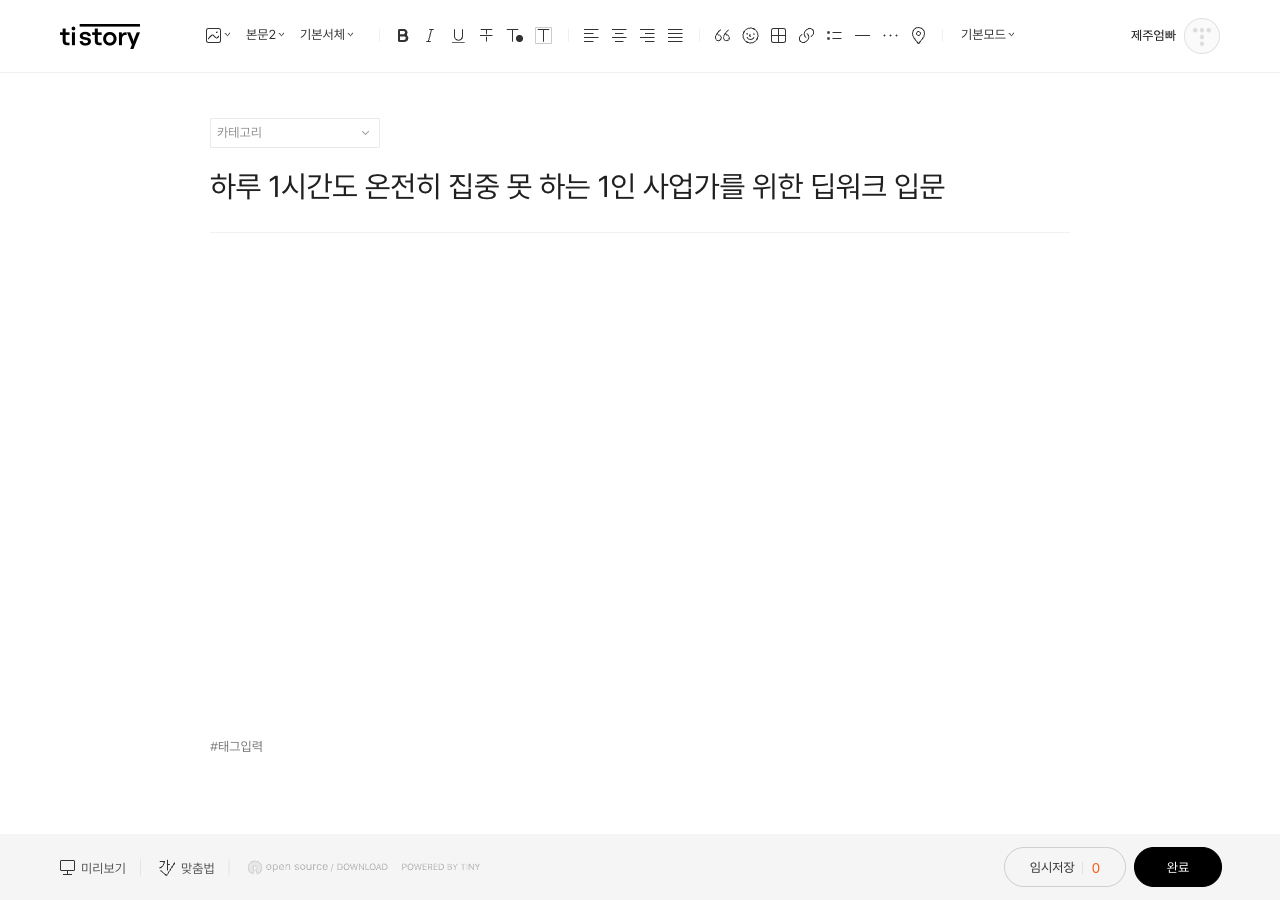
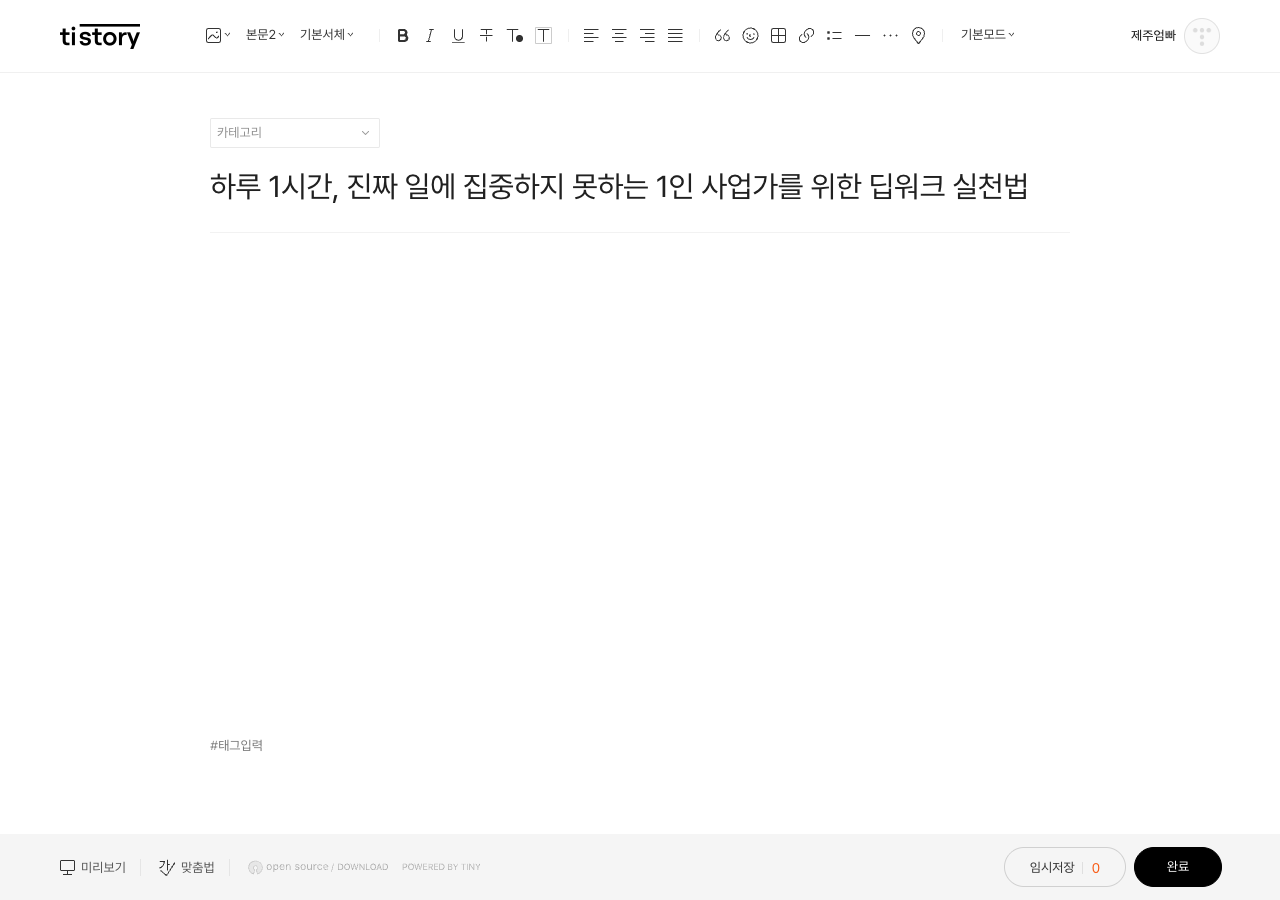
fix: telegram_bot.poll .env 로드 + plist 복원

Changed region(s): [[0.25, 0.1867, 0.8125, 0.2178], [0.1562, 0.8089, 0.2188, 0.84]]

diff --git a/site/blog-drafts/claude-intro-email/post.html b/site/blog-drafts/claude-intro-email/post.html
@@ -1,66 +1,28 @@
-<!doctype html><html lang="ko"><head><meta charset="utf-8"><title>클로드 AI 이메일 자동화, 1인 사업가가 처음부터 제대로 배워야 하는 이유</title><style>body{max-width:720px;margin:24px auto;padding:0 20px;font-family:-apple-system,Pretendard,sans-serif;line-height:1.6}h1{color:#1A3558}</style></head><body><h1>클로드 AI 이메일 자동화, 1인 사업가가 처음부터 제대로 배워야 하는 이유</h1><p style="text-align:center;margin:20px 0"><img src="https://raw.githubusercontent.com/idsexyhomme-code/lecture-auto/main/site/blog-images/claude-intro-email-hero.png" alt="클로드 AI 이메일 자동화, 1인 사업가가 처음부터 제대로 배워야 하는 이유" style="max-width:100%;height:auto;border-radius:8px;box-shadow:0 4px 12px rgba(0,0,0,0.08)"></p>
+<!doctype html><html lang="ko"><head><meta charset="utf-8"><title>이메일 쓰는 데 하루가 걸린다면 클로드를 아직 제대로 못 쓰고 있는 겁니다</title><style>body{max-width:720px;margin:24px auto;padding:0 20px;font-family:-apple-system,Pretendard,sans-serif;line-height:1.6}h1{color:#1A3558}</style></head><body><h1>이메일 쓰는 데 하루가 걸린다면 클로드를 아직 제대로 못 쓰고 있는 겁니다</h1><p style="text-align:center;margin:20px 0"><img src="https://raw.githubusercontent.com/idsexyhomme-code/lecture-auto/main/site/blog-images/claude-intro-email-hero.png" alt="이메일 쓰는 데 하루가 걸린다면 클로드를 아직 제대로 못 쓰고 있는 겁니다" style="max-width:100%;height:auto;border-radius:8px;box-shadow:0 4px 12px rgba(0,0,0,0.08)"></p>
 
-<h2>이메일 하나 쓰는 데 30분씩 쓰고 있다면</h2>
-<p>
-1인 사업을 하다 보면 이메일 쓰는 시간이 생각보다 엄청나게 잡아먹힌다는 걸 느끼게 됩니다. 고객 문의 답변, 제휴 제안, 팔로업, 감사 인사… 매번 비슷한 내용인데도 빈 화면 앞에서 멍하니 있다가 결국 30분이 훌쩍 지나 있는 경험, 한 번쯤은 있으시죠?
-</p>
-<p>
-그렇다고 아무 템플릿이나 복붙하면 읽는 사람이 바로 느낍니다. "아, 이거 그냥 긁어온 거구나." 개인적인 느낌이 없으니 응답률도 떨어지고, 결국 내가 직접 쓰는 게 낫겠다는 결론으로 돌아오게 됩니다.
-</p>
-<p>
-Claude 같은 AI 어시스턴트가 이 문제를 해결해줄 수 있다고들 하는데, 막상 써보면 "이걸 어떻게 써야 제대로 된 이메일이 나오지?" 하는 막막함이 앞섭니다. 프롬프트를 어떻게 짜야 하는지, 내 목소리를 살리면서 AI를 활용하는 방법이 뭔지 감이 잘 안 잡히는 거죠.
-</p>
-<p>
-이 코스는 그 막막함을 없애기 위해 만들어졌습니다. 거창한 AI 강의가 아니라, "이메일 쓸 때 Claude 이렇게 쓰면 됩니다"를 알려주는 실용적인 가이드입니다.
-</p>
+<h2>이메일 하나 쓰는 데 30분씩 쓰고 계신가요?</h2>
+<p>1인 사업가로 일하다 보면, 하루에도 수십 통의 이메일을 써야 할 때가 있습니다. 고객 문의 답변, 협업 제안, 팔로업 메시지, 뉴스레터 초안… 머릿속에 하고 싶은 말은 분명한데, 막상 키보드 앞에 앉으면 첫 문장부터 막힙니다. 그렇게 30분이 지나고, 겨우 완성한 이메일을 보내고 나서도 "이게 맞는 톤이었나?" 하는 찜찜함이 남죠.</p>
+<p>Claude 같은 AI 도구가 있다는 건 알고 있습니다. 써보려고 했던 적도 있고요. 그런데 막상 뭘 입력해야 하는지 몰라서, 결국 그냥 직접 쓰게 됩니다. 혹은 AI한테 써달라고 했더니 너무 딱딱하거나, 너무 광고처럼 나와서 반쯤 포기한 상태이기도 하죠.</p>
+<p>이 코스는 바로 그 지점에서 시작합니다. Claude를 "어떻게 써야 할지 모르겠는" 상태에서, 실제 업무 이메일에 바로 적용할 수 있는 수준까지 데려다 주는 실용적인 입문 과정입니다.</p>
 
 <h2>이 코스가 약속하는 것</h2>
 <ul>
-  <li><strong>이메일 작성 시간을 실질적으로 줄여드립니다.</strong> 30분짜리 이메일을 5분 안에 초안까지 뽑아내는 흐름을 익힙니다. Claude에게 정확하게 요청하는 방법을 알면, 처음부터 다시 쓰는 일이 확 줄어듭니다.</li>
-  <li><strong>내 목소리를 잃지 않는 방법을 알려드립니다.</strong> AI가 써준 글이 어색하게 느껴지는 이유가 있습니다. 톤, 문체, 맥락을 제대로 전달하는 프롬프트 구조를 익히면 내가 쓴 것처럼 자연스러운 이메일이 나옵니다.</li>
-  <li><strong>반복 사용 가능한 나만의 SOP를 만들어드립니다.</strong> 한 번 배우고 끝이 아니라, 매번 꺼내 쓸 수 있는 이메일 유형별 프롬프트 세트를 코스 끝에 직접 완성하게 됩니다.</li>
+  <li><strong>Claude에게 제대로 부탁하는 법을 익힙니다.</strong> 프롬프트를 "잘 쓰는 기술"을 배우는 게 아닙니다. 이메일 하나를 쓸 때, 어떤 맥락을 함께 알려줘야 원하는 결과가 나오는지 감을 잡는 것입니다. 조금만 바꿔도 결과물이 확 달라진다는 걸 직접 경험하게 됩니다.</li>
+  <li><strong>내 목소리가 살아있는 이메일을 만드는 방법을 배웁니다.</strong> AI가 쓴 티가 팍팍 나는 글 말고, 내가 평소에 쓰는 말투와 결이 맞는 이메일을 뽑아내는 방식을 다룹니다. 복붙해서 바로 보낼 수 있는 수준으로요.</li>
+  <li><strong>반복되는 이메일은 템플릿으로 만들어둡니다.</strong> 비슷한 상황에서 매번 처음부터 쓰는 낭비를 줄이는 방법까지 다룹니다. 한 번 잘 만들어두면, 다음번엔 5분이면 충분합니다.</li>
 </ul>
 
 <h2>차시별 미리보기</h2>
-<p>
-이 코스는 처음 Claude를 쓰는 분들도 따라올 수 있도록 단계별로 구성되어 있습니다.
-</p>
-<p>
-<strong>1차시 – Claude가 뭔지, 이메일에 왜 쓰는지</strong><br>
-Claude의 기본 작동 방식을 짧게 짚고, 이메일 작성에 특히 잘 맞는 이유를 설명합니다. "AI 도구 소개" 강의가 아니라, 이메일이라는 구체적인 작업에 초점을 맞춥니다.
-</p>
-<p>
-<strong>2차시 – 프롬프트 기초: 왜 내가 원하는 게 안 나오는가</strong><br>
-"이메일 써줘"라고 하면 왜 엉뚱한 게 나오는지, 맥락·목적·톤 세 가지를 어떻게 전달해야 하는지를 다룹니다. 짧지만 핵심적인 내용입니다.
-</p>
-<p>
-<strong>3차시 – 이메일 유형별 프롬프트 작성법</strong><br>
-고객 문의 답변, 제휴 제안, 팔로업, 거절 이메일 등 1인 사업가가 자주 쓰는 유형별로 프롬프트 구조를 직접 작성해봅니다. 예시와 함께 비교하면서 익힙니다.
-</p>
-<p>
-<strong>4차시 – 초안 받고 내 것으로 다듬기</strong><br>
-Claude가 써준 초안을 어떻게 빠르게 검토하고 손보는지, 어느 부분을 꼭 직접 수정해야 하는지를 다룹니다. AI 결과물을 그대로 쓰지 않는 습관을 잡아줍니다.
-</p>
-<p>
-<strong>5차시 – 나만의 이메일 프롬프트 SOP 완성</strong><br>
-코스에서 익힌 것들을 정리해 반복 사용 가능한 프롬프트 세트를 만듭니다. 노션, 메모장 어디든 꺼내 쓸 수 있는 형태로 마무리합니다.
-</p>
+<p><strong>1강 – Claude가 뭔지, 이메일에 왜 쓰면 좋은지</strong><br>처음 접하는 분들을 위해 Claude가 어떤 도구인지 간단히 설명합니다. ChatGPT랑 뭐가 다른지, 이메일 작업에 특히 잘 맞는 이유가 뭔지 짚어봅니다. 거창한 설명 없이, 딱 필요한 만큼만 다룹니다.</p>
+<p><strong>2강 – 첫 프롬프트 써보기: 고객 문의 답변 이메일</strong><br>실제로 많이 쓰는 상황인 "고객 문의 답변"을 예제로 씁니다. 어떻게 부탁하면 쓸 만한 결과가 나오는지, 어떻게 하면 엉뚱한 결과가 나오는지 비교해봅니다. 직접 따라 해보는 형태로 진행됩니다.</p>
+<p><strong>3강 – 톤 조정하기: 딱딱하지 않게, 그렇다고 가볍지도 않게</strong><br>AI 이메일이 어색하게 느껴지는 가장 큰 이유는 톤입니다. 내 상황과 관계에 맞는 말투로 조정하는 방법을 다룹니다. "좀 더 친근하게", "좀 더 간결하게" 같은 지시어를 실제로 어떻게 쓰면 효과적인지 알아봅니다.</p>
+<p><strong>4강 – 반복 이메일 템플릿 만들기</strong><br>팔로업 메시지, 미팅 요청, 견적 안내 등 자주 쓰는 유형을 Claude로 한 번 잘 만들어두는 방법을 다룹니다. 나중에 상황에 맞게 조금씩 바꿔 쓸 수 있도록 구조를 잡는 법까지 포함합니다.</p>
+<p><strong>5강 – 실전 워크플로우: 이메일 작성 시간 절반으로 줄이기</strong><br>앞서 배운 내용을 실제 업무 흐름에 녹여내는 방법을 정리합니다. 어떤 순서로 Claude를 활용하면 가장 효율적인지, 내 루틴에 어떻게 끼워 넣을 수 있는지 실제적인 방식으로 다룹니다.</p>
 
 <h2>누구를 위한 것인가</h2>
-<p>
-Claude나 ChatGPT를 써봤는데 이메일에 제대로 활용하지 못하고 있는 분, 이메일 쓰는 데 시간이 너무 많이 들어서 다른 작업이 밀리는 분, AI가 쓴 이메일이 어색해서 결국 직접 다 고치게 되는 분에게 맞습니다.
-</p>
-<p>
-개발자가 아니어도 됩니다. AI를 처음 써보는 분도 괜찮습니다. 이메일을 매일 쓰는 1인 사업가, 프리랜서, 소규모 팀이면 충분합니다.
-</p>
-<p>
-반대로, 이미 자신만의 프롬프트 루틴이 잘 잡혀 있고 이메일 자동화까지 구축한 분에게는 새로운 내용이 많지 않을 수 있습니다.
-</p>
+<p>이 코스는 AI나 기술에 특별히 밝지 않아도 됩니다. Claude를 한 번도 써본 적 없어도 괜찮습니다. 다만, 이메일 쓰는 데 시간이 많이 들거나, 매번 비슷한 내용을 반복해서 쓰고 있다는 느낌이 드는 1인 사업가라면 바로 체감이 될 내용입니다. 프리랜서, 1인 컨설턴트, 소규모 스튜디오 운영자처럼 혼자서 커뮤니케이션을 다 책임져야 하는 분들에게 특히 잘 맞습니다.</p>
+<p>거창한 자동화나 복잡한 세팅 같은 건 없습니다. Claude 창 하나 열고, 실제 이메일 하나 써보는 것부터 시작합니다. 그게 전부입니다.</p>
 
 <h2>지금 시작하기</h2>
-<p>
-이메일 하나에 쓰는 시간을 줄이는 건 거창한 변화가 아닙니다. 프롬프트 구조 하나 익히는 것에서 시작됩니다. 코스는 짧고 실용적으로 구성되어 있으니, 부담 없이 1차시부터 따라와 보세요.
-</p>
-<p>
-사이트 링크: <a href="https://idsexyhomme-code.github.io/lecture-auto/courses/claude-intro-email.html">claude-intro-email 코스 바로가기</a>
-</p></body></html>
+<p>이미 쓰고 있는 이메일을 조금 더 빠르게, 조금 더 잘 쓸 수 있게 되는 것. 그걸로 충분합니다. 오늘 30분 투자해서, 앞으로 이메일에 쓰는 시간을 아껴보세요.</p>
+<p>사이트 링크: <a href="https://idsexyhomme-code.github.io/lecture-auto/courses/claude-intro-email.html">claude-intro-email 코스 바로가기</a></p></body></html>

diff --git a/site/blog-drafts/deepwork-1hr/post.html b/site/blog-drafts/deepwork-1hr/post.html
@@ -1,36 +1,71 @@
-<!doctype html><html lang="ko"><head><meta charset="utf-8"><title>하루 1시간도 온전히 집중 못 하는 1인 사업가를 위한 딥워크 입문</title><style>body{max-width:720px;margin:24px auto;padding:0 20px;font-family:-apple-system,Pretendard,sans-serif;line-height:1.6}h1{color:#1A3558}</style></head><body><h1>하루 1시간도 온전히 집중 못 하는 1인 사업가를 위한 딥워크 입문</h1><p style="text-align:center;margin:20px 0"><img src="https://raw.githubusercontent.com/idsexyhomme-code/lecture-auto/main/site/blog-images/deepwork-1hr-hero.png" alt="하루 1시간도 온전히 집중 못 하는 1인 사업가를 위한 딥워크 입문" style="max-width:100%;height:auto;border-radius:8px;box-shadow:0 4px 12px rgba(0,0,0,0.08)"></p>
+<!doctype html><html lang="ko"><head><meta charset="utf-8"><title>하루 1시간, 진짜 일에 집중하지 못하는 1인 사업가를 위한 딥워크 실천법</title><style>body{max-width:720px;margin:24px auto;padding:0 20px;font-family:-apple-system,Pretendard,sans-serif;line-height:1.6}h1{color:#1A3558}</style></head><body><h1>하루 1시간, 진짜 일에 집중하지 못하는 1인 사업가를 위한 딥워크 실천법</h1><p style="text-align:center;margin:20px 0"><img src="https://raw.githubusercontent.com/idsexyhomme-code/lecture-auto/main/site/blog-images/deepwork-1hr-hero.png" alt="하루 1시간, 진짜 일에 집중하지 못하는 1인 사업가를 위한 딥워크 실천법" style="max-width:100%;height:auto;border-radius:8px;box-shadow:0 4px 12px rgba(0,0,0,0.08)"></p>
 
-<h2>하루 종일 바쁜데, 정작 중요한 일은 하나도 못 했다는 느낌 아시나요?</h2>
-<p>노트북 앞에 앉아 있던 시간은 분명 8시간인데, 막상 오늘 뭘 했냐고 물으면 선뜻 대답이 안 나옵니다. 메일 답장, 카카오톡, 유튜브 알고리즘, 슬랙 알림, 또 메일. 어느새 저녁이고, 진짜 해야 했던 그 작업은 내일로 밀립니다. 그리고 내일도 똑같은 하루가 반복됩니다.</p>
-<p>1인 사업가, 프리랜서, 부업러라면 이 패턴이 유독 잔인하게 느껴집니다. 회사원처럼 퇴근이라는 마감선도 없고, 누가 시켜주는 것도 없으니까요. 결국 스스로 집중을 만들어내야 하는데, 아무도 그 방법을 제대로 알려준 적이 없습니다.</p>
-<p>딥워크(Deep Work)라는 개념 자체는 많이들 들어봤을 겁니다. 칼 뉴포트의 책도 유명하고, 유튜브 영상도 넘쳐납니다. 근데 실제로 내 하루 루틴에 딥워크를 어떻게 집어넣는지, 구체적인 SOP 수준으로 알려주는 곳은 거의 없죠. 이론은 알겠는데 실행이 안 되는 상태. 이 코스는 바로 그 간격을 채우기 위해 만들었습니다.</p>
+<h2>하루 종일 바쁜데, 왜 한 것도 없는 것 같을까</h2>
+<p>
+아침에 노트북을 열고, 메일 확인하고, 슬랙 답장하고, 유튜브 잠깐 보고, 커피 한 잔 더 마시고 나면 어느새 점심이다.
+오후엔 회의 하나, 자료 조사 조금, 카카오톡 몇 개 답장. 그렇게 저녁이 온다.
+분명히 하루를 꽉 채웠는데, 정작 "오늘 뭘 만들었지?"라고 물으면 딱히 떠오르는 게 없다.
+</p>
+<p>
+1인 사업가라면 이 감각이 낯설지 않을 거다. 바쁨과 생산성은 다르다는 걸 머리로는 알면서도, 막상 하루를 어떻게 설계해야 할지 모른다.
+집중해야 한다는 건 알겠는데, 어떻게 집중하냐고. 그냥 폰 내려놓으면 되냐고? 그게 됐으면 이미 했겠지.
+</p>
+<p>
+이 코스는 그 물음에 SOP처럼 답한다. 복잡한 생산성 이론 말고, 오늘 당장 써먹을 수 있는 1시간짜리 딥워크 루틴을 설계하는 방법을 다룬다.
+</p>
 
 <h2>이 코스가 약속하는 것</h2>
 <ul>
-  <li><strong>하루 1시간, 실제로 써먹을 수 있는 딥워크 루틴을 설계합니다.</strong> 거창한 생산성 철학이 아니라, 오늘 당장 적용할 수 있는 순서와 방법을 알려드립니다. 타이머 몇 분, 환경 셋업 몇 가지, 마감 트리거 하나. 이 정도면 충분합니다.</li>
-  <li><strong>집중이 안 되는 진짜 이유를 짚어줍니다.</strong> 의지력 부족이 아닙니다. 환경 설계와 진입 의식(ritual)의 문제입니다. 뇌가 집중 모드로 전환되는 구조를 만들면, 억지로 버티지 않아도 됩니다.</li>
-  <li><strong>짧고 밀도 있게 끝냅니다.</strong> 이 코스 자체가 딥워크처럼 설계되어 있습니다. 군더더기 없이, 핵심만, 실행 가능한 것들만 담았습니다. 배우는 데 시간을 다 써버리는 아이러니를 피했습니다.</li>
+  <li>
+    <strong>딥워크를 "해야 하는 것"이 아니라 "할 수 있는 것"으로 만들어준다.</strong>
+    의지력에 기대지 않는다. 환경과 구조로 집중이 자동으로 일어나게 만드는 방식을 다룬다.
+  </li>
+  <li>
+    <strong>하루 1시간만 확보해도 충분하다는 걸 직접 경험하게 해준다.</strong>
+    8시간 집중하겠다는 계획은 대부분 실패한다. 현실적인 단위로 쪼개서, 짧고 강하게 쓰는 루틴을 만든다.
+  </li>
+  <li>
+    <strong>자신의 집중 패턴을 파악하고, 딱 맞는 루틴을 직접 설계할 수 있게 된다.</strong>
+    남의 루틴을 따라 하면 2주를 못 간다. 이 코스는 내 상황에 맞는 루틴을 직접 설계하는 과정을 안내한다.
+  </li>
 </ul>
 
 <h2>차시별 미리보기</h2>
-<p><strong>1차시 — 딥워크가 왜 1인 사업가에게 더 중요한가</strong><br>
-멀티태스킹이 생산성을 낮추는 구조적 이유, 그리고 왜 1인 사업가는 이 문제에 더 취약한지를 짚습니다. 이론 설명이 아니라, 내 하루 패턴을 진단하는 방식으로 접근합니다.</p>
-
-<p><strong>2차시 — 딥워크 환경 셋업: 방해 요소 차단 SOP</strong><br>
-폰, 알림, 탭, 소음. 집중을 방해하는 요소들을 하나씩 끊는 체크리스트를 만듭니다. 한 번만 셋업해두면 매일 재사용할 수 있는 나만의 집중 환경 프로토콜입니다.</p>
-
-<p><strong>3차시 — 딥워크 진입 의식(Ritual) 설계하기</strong><br>
-집중 상태는 갑자기 오지 않습니다. 뇌에게 "지금부터 집중 모드야"라는 신호를 주는 반복 행동 패턴, 즉 진입 의식을 설계합니다. 커피 한 잔부터 특정 플레이리스트까지, 나에게 맞는 트리거를 찾습니다.</p>
-
-<p><strong>4차시 — 1시간 딥워크 블록 실전 템플릿</strong><br>
-실제로 어떻게 1시간을 구성하는지 분 단위로 보여줍니다. 워밍업 5분, 집중 작업 45분, 리뷰 10분. 이 구조를 내 업무 유형에 맞게 조정하는 방법까지 다룹니다.</p>
-
-<p><strong>5차시 — 딥워크 루틴을 습관으로 굳히는 방법</strong><br>
-한 번 해보는 것과, 매일 하는 것은 다릅니다. 루틴이 끊겼을 때 다시 돌아오는 방법, 기록 방식, 그리고 딥워크 블록을 캘린더에 고정하는 실전 팁까지 정리합니다.</p>
+<p>
+<strong>1차시 · 딥워크가 뭔지, 왜 1시간인지</strong><br>
+칼 뉴포트가 말하는 딥워크 개념을 1인 사업가 언어로 다시 번역한다. 8시간 집중이 아니라 왜 1시간이 현실적인 시작점인지, 숫자 근거와 함께 설명한다. 뜬구름 잡는 이야기 없이, 딥워크의 핵심 메커니즘만 추린다.
+</p>
+<p>
+<strong>2차시 · 나의 집중 가능 시간대 찾기</strong><br>
+아침형 인간 루틴을 억지로 따라 하다 실패한 경험이 있다면 이 차시가 반가울 거다. 자신의 에너지 곡선을 간단하게 파악하고, 실제로 집중이 잘 되는 시간대를 찾는 방법을 다룬다. 설문지 한 장으로 끝난다.
+</p>
+<p>
+<strong>3차시 · 방해 요소 차단 SOP 만들기</strong><br>
+집중을 방해하는 것들을 "의지력으로 참기"가 아니라 "애초에 안 보이게 만들기"로 처리하는 방법이다. 폰, 알림, 탭, 사람. 각각에 대한 구체적인 차단 루틴을 세팅하는 과정을 단계별로 안내한다.
+</p>
+<p>
+<strong>4차시 · 딥워크 1시간 루틴 직접 짜기</strong><br>
+시작 의식, 본작업, 마감 의식. 이 세 가지로 1시간짜리 딥워크 블록을 설계한다. 템플릿을 받아서 내 상황에 맞게 채우는 방식이라 복잡하지 않다. 완성하고 나면 내일 바로 써볼 수 있는 나만의 루틴 한 장이 생긴다.
+</p>
+<p>
+<strong>5차시 · 루틴이 무너졌을 때 복구하는 법</strong><br>
+어떤 루틴도 100% 지켜지지 않는다. 루틴이 깨졌을 때 자책하거나 포기하지 않고, 빠르게 복구하는 방법을 다룬다. 실패를 예상하고 설계에 넣는 것이 진짜 루틴이다.
+</p>
 
 <h2>누구를 위한 것인가</h2>
-<p>하루 종일 뭔가 하긴 했는데 중요한 작업은 진척이 없다고 느끼는 분. 집중력이 문제가 아니라 구조가 없어서 흔들린다는 걸 어렴풋이 알고 있는 분. 딥워크 개념은 알지만 실제로 어떻게 루틴화하는지 모르는 분. 프리랜서, 1인 창업자, 부업러, 재택근무자처럼 스스로 시간을 설계해야 하는 분이라면 이 코스가 맞습니다. 반대로, 이미 딥워크 루틴이 잘 잡혀 있고 매일 실천 중이라면 굳이 들을 필요 없습니다. 이 코스는 아직 루틴이 없거나, 있어도 자꾸 무너지는 분을 위한 것입니다.</p>
+<p>
+매일 바쁘게 움직이는데 정작 중요한 작업은 미뤄지고 있는 1인 사업가에게 맞는 코스다.
+프리랜서, 1인 브랜드 운영자, 사이드 프로젝트를 진행 중인 직장인 모두 해당된다.
+생산성 책을 여러 권 읽었지만 실천으로 연결된 적이 없었다면, 이 코스가 그 연결 고리를 만들어줄 거다.
+반대로, 이미 딥워크 루틴이 잘 작동하고 있고 추가로 최적화할 방법을 찾는 사람에게는 맞지 않는다. 이 코스는 아직 루틴이 없는 사람을 위한 첫 번째 SOP다.
+</p>
+<p>
+하루에 딱 1시간. 그 1시간을 제대로 쓰는 구조를 만드는 것. 그게 이 코스의 전부다.
+작게 시작하고, 꾸준히 쓰고, 필요하면 고치면 된다.
+</p>
 
 <h2>지금 시작하기</h2>
-<p>하루 1시간을 제대로 쓰는 것만으로도 달라지는 게 있습니다. 그 1시간을 설계하는 방법, 아래 링크에서 바로 확인하세요.</p>
-<p>사이트 링크: <a href="https://idsexyhomme-code.github.io/lecture-auto/courses/deepwork-1hr.html">deepwork-1hr</a></p></body></html>
+<p>
+오늘 하루도 바쁘게 흘러가기 전에, 집중할 구조 하나를 만들어두자. 루틴은 의지력이 아니라 설계의 문제다.
+</p>
+<p>사이트 링크: <a href="https://idsexyhomme-code.github.io/lecture-auto/courses/deepwork-1hr.html">deepwork-1hr 코스 바로가기</a></p></body></html>

diff --git a/telegram_bot/poll.py b/telegram_bot/poll.py
@@ -12,6 +12,13 @@ from pathlib import Path
 
 sys.path.insert(0, str(Path(__file__).resolve().parents[1]))
 
+# .env 로드 — 데몬이 환경변수 못 읽고 즉시 크래시하는 문제 해결
+try:
+    from dotenv import load_dotenv
+    load_dotenv(Path(__file__).resolve().parents[1] / ".env")
+except ImportError:
+    pass
+
 from agents.base import PENDING_DIR, APPROVED_DIR, REJECTED_DIR, STATE_DIR, REPO_ROOT, AgentResult
 from telegram_bot import client as tg
 from telegram_bot.conversation import Conversation
